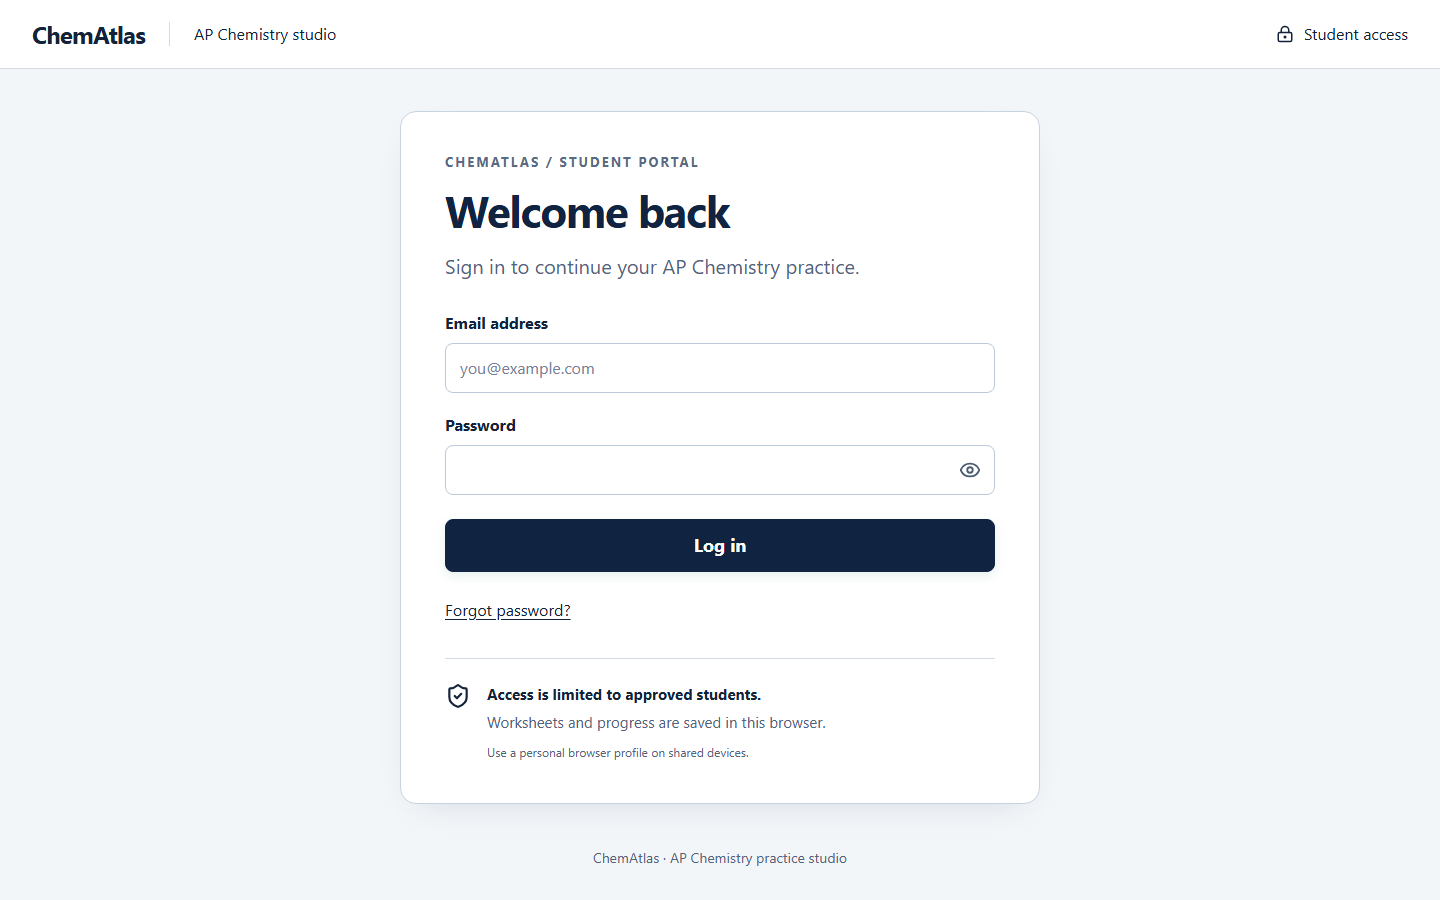
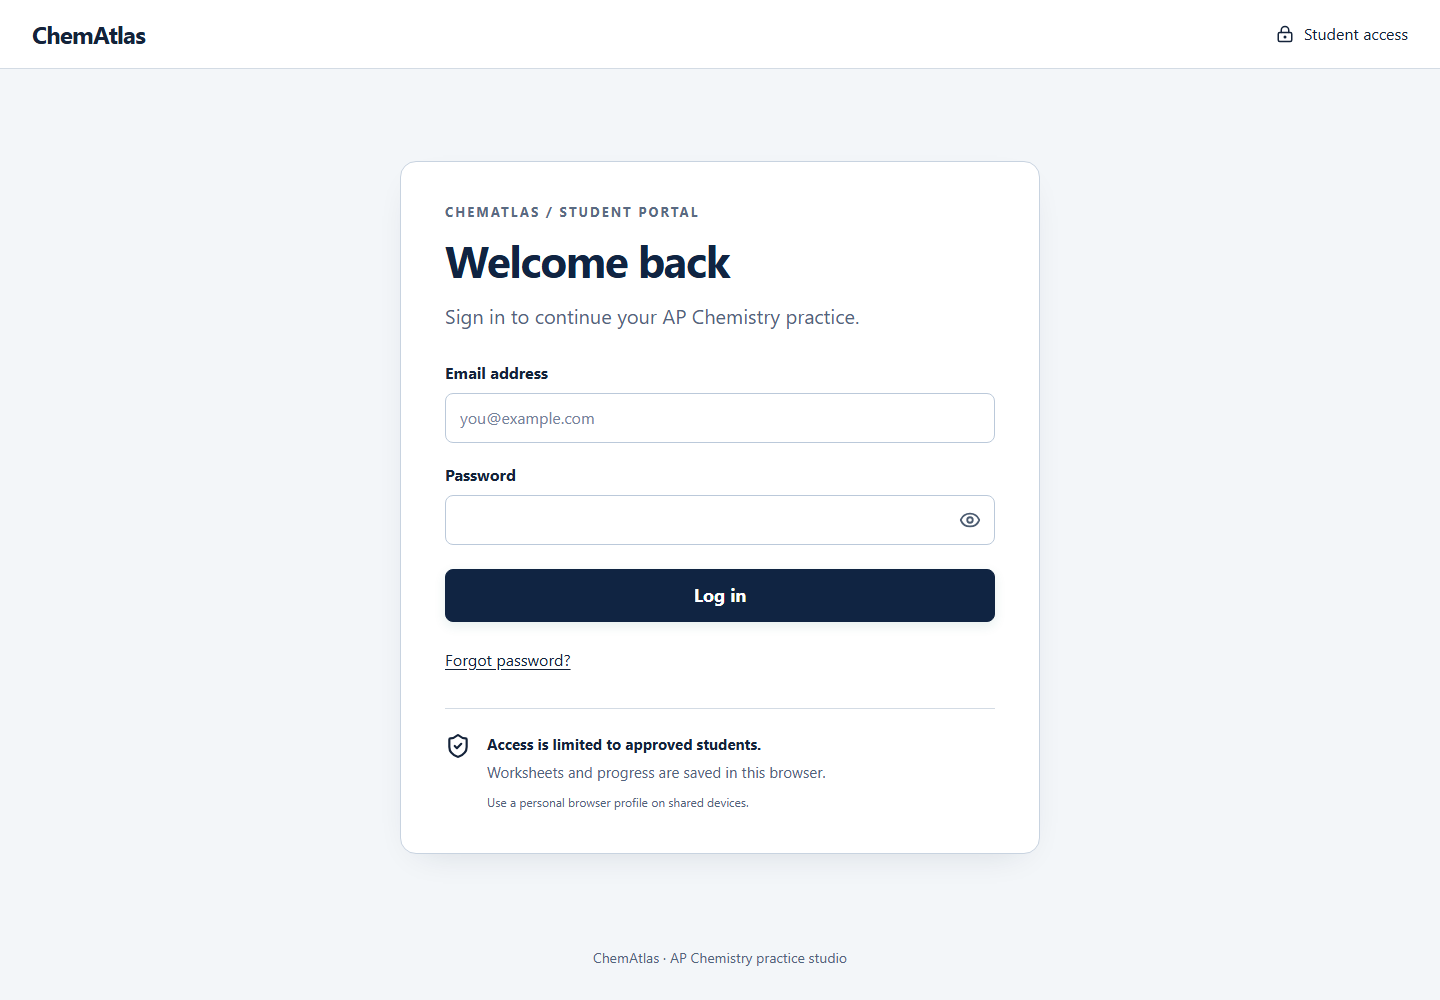
Verify and document the manual-review UI refinements

diff --git a/docs/student-ui-improvements/README.md b/docs/student-ui-improvements/README.md
@@ -2,6 +2,7 @@
 
 - Feature branch: `codex/student-ui-improvements`.
 - Approved base: `origin/main`, `b05c06eaf113a91edcf95f3eea50dc4dec738492`.
+- Owner-requested refinements continue the existing PR #9 branch from `ace5b7d941cf35d59ae06f1a07925ba006ece6db`; no other PR is incorporated.
 - Separate worktree: `C:\Users\Johnson\.codex\worktrees\student-ui-improvements\ChemAtlas-redesign`.
 - Original detached checkout preserved at `0f4d826fa9a78b7f6fbe7f536fe405a60b8596f5`.
 - Design authority: [Website UI Design](https://app.notion.com/p/41de71cef6dc80f0a49cfad183658089), including all six embedded images, inspected November 19, 2026.
@@ -20,6 +21,13 @@
 | Enlarge PDF area | Tighter course/header spacing; topic/status content moves out of the reading area. Full-page/crop, zoom, fit width/page, actual size, fullscreen, source-page navigation and add-to-worksheet controls retained. |
 | Print warning and Details | Default-closed Details includes primary/supporting topics, part descriptions and complete warning. Print unreviewed opens it directly; Escape closes it without dismissing the phone question pane. Worksheet warning retains source-page/adjacent-answer cautions and explicitly calls for checking subparts, figures and continuation pages. |
 | Navigation latency investigation | Ordinary internal navigation uses browser history without remounting Auth/catalog/draft state. Anchors retain valid URLs and modifier-click behavior. Back/Forward and deep links remain supported. |
+
+## Manual-review refinements
+
+- The login header contains only ChemAtlas on the left and Student access on the right. The subtitle and its divider are removed; the form and authentication behavior are unchanged.
+- Question type controls read All, MCQ and FRQ. Clear filters occupies the former review-checkbox position beside the year control; it is disabled when there is nothing to clear. It still resets year, type, search and pagination while retaining the selected unit and topic. The reviewed-only filter is removed; review statuses and print warnings remain elsewhere.
+- Each desktop topic row fills its container. The two-row split uses independently measured natural label/count widths; flex distributes spare space across the variable-width buttons. All nine units are checked at 1440 and 1280 pixels, including long labels and Units 1, 2 and 8. The mobile topic sheet is retained.
+- The desktop split is 24% list / 76% viewer at 1440 pixels, with a 320-pixel list minimum producing 25% / 75% at 1280. Tablet widths reserve more list space. The title and complete metadata occupy the first header row; Details shares the full-page/crop and worksheet-action row. Details remains closed by default and retains all classifications and warnings.
 
 ## Navigation evidence
 
@@ -47,12 +55,12 @@ Local results:
 - ESLint passed with the same four pre-existing warnings outside the changed product code.
 - 109 Node tests passed.
 - 52 Python tests passed with Python 3.12, UTF-8, PyMuPDF 1.26.6 and Tesseract.
-- All 15 Pages browser scenarios passed against the production build, real Supabase client, simulated Auth protocol and the actual approval/Storage migration in embedded PostgreSQL.
+- All 17 Pages browser scenarios passed against the production build, real Supabase client, simulated Auth protocol and the actual approval/Storage migration in embedded PostgreSQL.
 - Pages build and artifact privacy allowlist passed. Protected data/server modules and administrative credentials remain excluded.
 - A focused 844x390 selected-topic regression verifies a reachable PDF viewport and actual mouse-wheel scrolling; short-screen course/filter controls are internally bounded. Expanded Details is anchored within the short viewport so its warning and part details remain reachable.
 - The downloaded worksheet was one US Letter page (377,523 bytes), rendered and visually checked with both browser PDF.js and Poppler. Poppler reported missing Symbol/ArialUnicode display-font warnings without a visible defect.
 - Worker compatibility build, privacy check and Wrangler dry run passed; the final exact-head compatibility and both shared browser suites are required in PR CI.
-- Desktop and phone screenshots were visually inspected. Coverage includes 1440×900, 768×700, 844×390, 390×844 and 320×600; all nine unit bands, keyboard navigation, PDF painting/fit controls, worksheet generation/download/parsing, progress import/export, logout, invite/recovery protocol, approval denials and revocation.
+- Desktop and phone screenshots were visually inspected. Coverage includes 1440×900, 1280×900, 768×700, 844×390, 390×844 and 320×600; all nine unit bands, keyboard navigation, PDF painting/fit controls, worksheet generation/download/parsing, progress import/export, logout, invite/recovery protocol, approval denials and revocation. Desktop checks assert full row widths, a maximum of two topic rows, unclipped labels/counts, single-line metadata, the list/viewer proportions and reachable expanded Details. Filter checks cover reset behavior and pagination.
 
 The final PR must pass both required checks on its own head:
 `Validate PR head application (no deploy)` and
@@ -81,6 +89,11 @@ following the release handoff's evidence privacy boundary:
 - `test-results/pages/builder-desktop.png`
 - `test-results/pages/print-details-phone.png`
 - `test-results/pages/worksheet.pdf`
+- `test-results/pages/filter-row-{1440,1280}.png`
+- `test-results/pages/topics-u{1,2,8}-{1440,1280}.png`
+- `test-results/pages/header-pdf-{1440,1280}.png`
+- `test-results/pages/short-landscape-details.png`
+- `test-results/pages/compact-question-phone.png`
 
 ## Release boundary and limits
 
